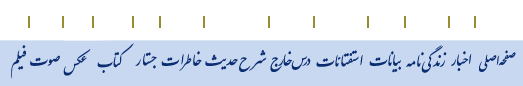
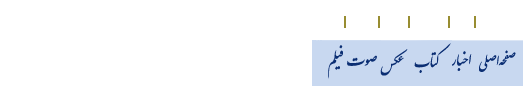
17-customize-khamenei-menu-main-menu-graphic-css-javascript-blade

diff --git a/public/assets/cssjs/global.js b/public/assets/cssjs/global.js
@@ -194,46 +194,46 @@ $(document).ready(function() {
 */
     currClassName= $(this).attr("class");
     var _pos=0;
-    var _bgPos=-434;
+    var _bgPos=-473;
     if (currClassName=="menu-videos"){
-      _pos=380;
-	  _bgPos=-4;
-	}else if (currClassName=="menu-audios"){
-      _pos=252;
-	  _bgPos=-27;
-	}else if (currClassName=="menu-photos"){
-      _pos=270;
-	  _bgPos=-61;
-	}else if (currClassName=="menu-book"){
-      _pos=335;
-	  _bgPos=-91;
-	}else if (currClassName=="menu-keywords"){
-      _pos=335;
-	  _bgPos=-131;
-	}else if (currClassName=="menu-yad"){
-      _pos=289;
-	  _bgPos=-158;
-	}else if (currClassName=="menu-memories"){
-      _pos=295;
-	  _bgPos=-158;
-	}else if (currClassName=="menu-hadith"){
-      _pos=245;
-	  _bgPos=-203;
-	}else if (currClassName=="menu-kharej"){
-      _pos=195;
-	  _bgPos=-269;
-	}else if (currClassName=="menu-treatise"){
       _pos=130;
-	  _bgPos=-314;
-	}else if (currClassName=="menu-speeches"){
-      _pos=-20
-      ;
-	  _bgPos=-365;
-	}else if (currClassName=="menu-biography"){
+	  _bgPos=-322;
+	}else if (currClassName=="menu-audios"){
+      _pos=130;
+	  _bgPos=-344;
+	}else if (currClassName=="menu-photos"){
+      _pos=-20;
+	  _bgPos=-377;
+	}else if (currClassName=="menu-book"){
       _pos=60;
-	  _bgPos=-402;
-	}else if (currClassName=="menu-news"){
-	  _bgPos=-447;
+	  _bgPos=-409;
+	}else if (currClassName=="menu-keywords"){
+    _pos=335;
+  _bgPos=-131;
+}else if (currClassName=="menu-yad"){
+    _pos=289;
+  _bgPos=-158;
+}else if (currClassName=="menu-memories"){
+    _pos=295;
+  _bgPos=-158;
+}else if (currClassName=="menu-hadith"){
+    _pos=245;
+  _bgPos=-203;
+}else if (currClassName=="menu-kharej"){
+    _pos=195;
+  _bgPos=-269;
+}else if (currClassName=="menu-treatise"){
+    _pos=130;
+  _bgPos=-314;
+}else if (currClassName=="menu-speeches"){
+    _pos=-20
+    ;
+  _bgPos=-365;
+}else if (currClassName=="menu-biography"){
+    _pos=60;
+  _bgPos=-402;
+}else if (currClassName=="menu-news"){
+	  _bgPos=-448;
 	}else if (currClassName=="menu-homepage"){
 	  _bgPos=-473;
 	}

diff --git a/resources/views/khamenei.blade.php b/resources/views/khamenei.blade.php
@@ -567,8 +567,18 @@
 					<div class="gd_2 menu">
 						<div id="menu">
 							<div class="menu-inner">
-								<div id="divO" style="left: 378px; width: 56px; background-position: -314px -43px;"></div>
-								<a href="./" class="menu-homepage" title="صفحه اصلی"></a><a href="/" class="menu-news" title="آرشیو اخبار"></a><a href="./memory-content?id=5467" class="menu-biography" title="زندگی نامه آیت الله العظمی سیدعلی خامنه ای"></a><a href="./speech" class="menu-speeches" title="آرشیو بیانات"></a><a href="https://www.leader.ir/fa/services/2/%D9%81%D9%82%D9%87-%D9%88-%D8%A7%D8%AD%DA%A9%D8%A7%D9%85-%D8%B4%D8%B1%D8%B9%DB%8C" class="menu-treatise" title="استفتائات"></a><a href="./page?id=7100" class="menu-kharej" title="درس خارج"></a><a href="./hadis-index" class="menu-hadith" title="شرح حدیث"></a><a href="./memory-index" class="menu-memories" title="آرشیو خاطرات"></a><a href="./keyword-index" class="menu-keywords" title="صفحه اصلی جستار"></a><a href="./book" class="menu-book" title="صفحه کتاب"></a><a href="./photo-index" class="menu-photos" title="آرشیو تصاویر"></a><a href="./audio-index" class="menu-audios" title="آرشیو صوت"></a><a href="./video-index" class="menu-videos" title="آرشیو فیلم"></a>
+								<div id="divO" style="left: 539px; width:45px; background-position: -473px -43px;"></div>
+								<a href="./" class="menu-homepage" title="صفحه اصلی"></a>
+								<a href="/" class="menu-news" title="آرشیو اخبار"></a>
+								<!-- <a href="./memory-content?id=5467" class="menu-biography" title="زندگی نامه آیت الله العظمی سیدعلی خامنه ای"></a><a href="./speech" class="menu-speeches" title="آرشیو بیانات"></a><a href="https://www.leader.ir/fa/services/2/%D9%81%D9%82%D9%87-%D9%88-%D8%A7%D8%AD%DA%A9%D8%A7%D9%85-%D8%B4%D8%B1%D8%B9%DB%8C" class="menu-treatise" title="استفتائات"></a>
+								<a href="./page?id=7100" class="menu-kharej" title="درس خارج"></a>
+								<a href="./hadis-index" class="menu-hadith" title="شرح حدیث"></a>
+								<a href="./memory-index" class="menu-memories" title="آرشیو خاطرات"></a>
+								<a href="./keyword-index" class="menu-keywords" title="صفحه اصلی جستار"></a> -->
+								<a href="./book" class="menu-book" title="صفحه کتاب"></a>
+								<a href="./photo-index" class="menu-photos" title="آرشیو تصاویر"></a>
+								<a href="./audio-index" class="menu-audios" title="آرشیو صوت"></a>
+								<a href="./video-index" class="menu-videos" title="آرشیو فیلم"></a>
 							</div>
 						</div>
 						<div class="clear"></div>
@@ -602,7 +612,7 @@
 										<a title="" href="./news-index?nt=50">روزنگار</a>
 									</li>
 								</ul>
-								<ul rel="menu-biography" style="display: none;">
+								<!-- <ul rel="menu-biography" style="display: none;">
 									<li class="submenu-last">
 										<a title="زندگینامه مختصر" href="./memory-content?id=5467">زندگینامه</a>
 									</li>
@@ -678,7 +688,7 @@
 									<li class="submenu-last">
 										<a title="" href="./others-index?type=26">مقالات جستار</a>
 									</li>
-								</ul>
+								</ul> -->
 								<ul rel="menu-book" style="display: none;">
 									<li class="submenu-first">
 										<a title="" href="./book-archive?nt=46">تلمیحات و اشارات</a>
@@ -2352,7 +2362,7 @@
 		</div>
 		<div align="center" id="footerCP">
 			<div style="width:957px;overflow: hidden;" align="right">
-				<div class="footerCopyright">پايگاه اطلاعرسانی دفتر حفظ و نشر آثار حضرت آيتاللهالعظمی سيدعلی خامنهای (مدظلهالعالی) - مؤسسه پژوهشی فرهنگی انقلاب اسلامی</div>
+				<div class="footerCopyright">پایگاه اطلاع رسانی بنیاد حیات طیبه علمای جهان اسلام</div>
 				<div class="copyright">All Content by <a href="./">.ir</a> is licensed under a <a href="https://creativecommons.org/licenses/by/4.0/deed.fa">Creative Commons Attribution 4.0 International License</a>.</div>
 			</div>
 		</div>
